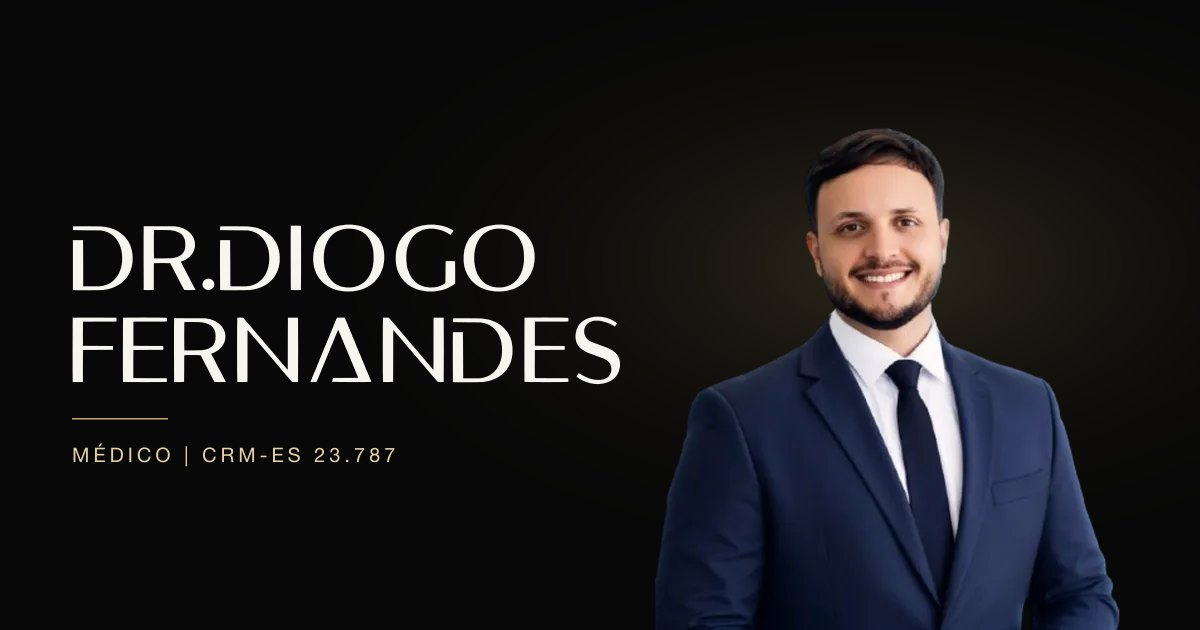
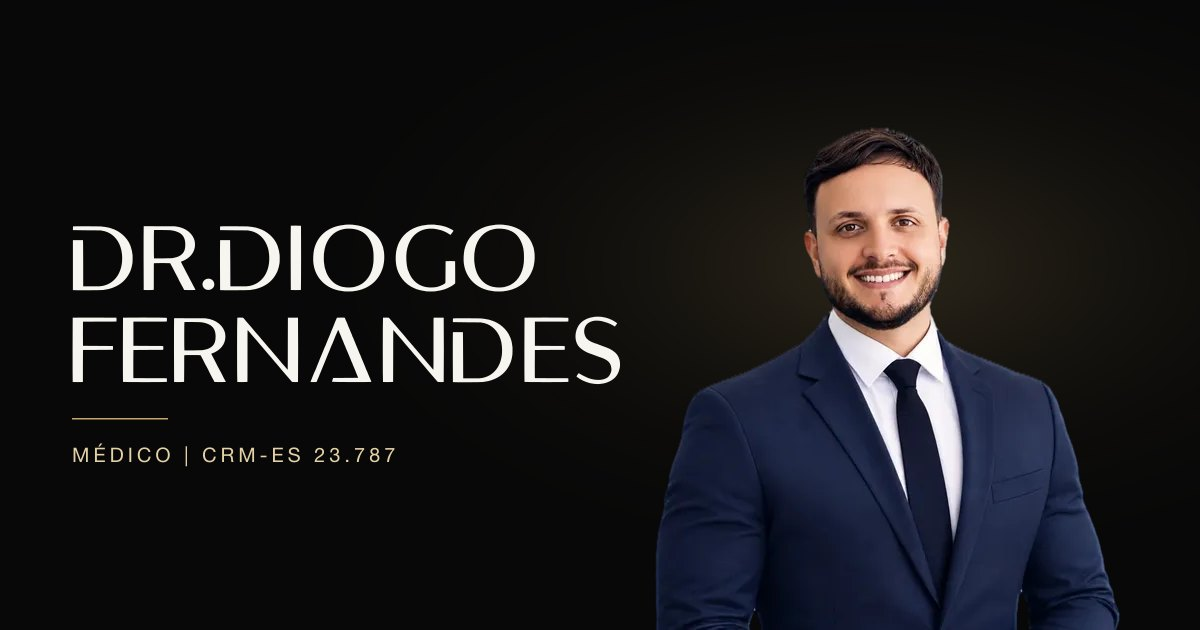
Foto em alta e seção de formação e atendimento

diff --git a/src/components/sections/philosophy.tsx b/src/components/sections/philosophy.tsx
@@ -2,8 +2,9 @@
 
 import { useRef } from "react";
 import { gsap, MOTION_OK, useGSAP } from "@/lib/gsap";
+import { CARE_TOPICS, FORMATION, SITE } from "@/lib/site";
 
-/** Só tipografia: prepara o preto de onde nasce a palavra do portal. */
+/** Título, apresentação curta, formação e atendimento: uma leitura editorial, sem cards. */
 export function Philosophy() {
   const scope = useRef<HTMLElement>(null);
 
@@ -19,6 +20,14 @@ export function Philosophy() {
           .fromTo(".ph-b", { clipPath: "inset(-12% 100% -12% 0%)", x: -28 }, { clipPath: "inset(-12% -2% -12% 0%)", x: 0, duration: 1.05, ease: "expo.inOut" }, 0.35)
           .fromTo(".ph-c", { opacity: 0, y: 12 }, { opacity: 1, y: 0, duration: 0.7, ease: "power2.out" }, 1);
 
+        /* Microinteração: as linhas douradas se desenham e as informações chegam em sequência. */
+        for (const group of gsap.utils.toArray<HTMLElement>(".ph-group", scope.current)) {
+          gsap
+            .timeline({ scrollTrigger: { trigger: group, start: "top 86%", once: true } })
+            .fromTo(group.querySelectorAll(".ph-line"), { scaleX: 0 }, { scaleX: 1, duration: 0.9, ease: "expo.out", stagger: 0.06 })
+            .fromTo(group.querySelectorAll(".ph-item"), { opacity: 0, y: 10 }, { opacity: 1, y: 0, duration: 0.6, ease: "power2.out", stagger: 0.06 }, 0.1);
+        }
+
         /* A última linha some suavemente e deixa o preto para a palavra SAÚDE. */
         gsap.to(".ph-leave", { opacity: 0, ease: "none", scrollTrigger: { trigger: scope.current, start: "bottom 62%", end: "bottom 30%", scrub: true } });
       });
@@ -28,28 +37,62 @@ export function Philosophy() {
   );
 
   return (
-    <section ref={scope} id="sobre" tabIndex={-1} className="after-portrait gutter relative z-[2] flex min-h-svh flex-col justify-between gap-14 pb-16 pt-[clamp(5.5rem,14svh,9rem)] outline-none md:pb-20">
+    <section ref={scope} id="sobre" tabIndex={-1} className="after-portrait gutter relative z-[2] flex min-h-svh flex-col gap-12 pb-16 pt-[clamp(7rem,16svh,9rem)] outline-none md:gap-16 md:pb-24">
       <p className="ph-eyebrow eyebrow text-gold">02 / Nossa filosofia</p>
 
-      <h2 className="display text-[clamp(2.5rem,6.6vw,7.5rem)] leading-[1.1]">
-        <span className="ph-a block max-w-[16ch] text-bone">Mais do que cuidar da saúde.</span>
-        <span className="ph-b mt-[.2em] block max-w-[14ch] text-gold-light md:ml-[20vw]">Compreender cada pessoa.</span>
+      {/* 1. Título */}
+      <h2 className="display text-[clamp(2.25rem,6.6vw,7.5rem)] leading-[1.16] md:leading-[1.1]">
+        <span className="ph-a block max-w-[16ch] pt-[.06em] text-bone">Mais do que cuidar da saúde.</span>
+        <span className="ph-b mt-[.24em] block max-w-[14ch] pt-[.06em] text-gold-light md:ml-[20vw]">Compreender cada pessoa.</span>
       </h2>
 
-      <div className="ph-leave grid gap-8 md:grid-cols-12">
-        <dl className="ph-c order-2 grid content-end gap-5 text-sm sm:grid-cols-2 md:order-1 md:col-span-5">
-          <div>
-            <dt className="text-xs uppercase tracking-[.16em] text-ash">Formação médica</dt>
-            <dd className="mt-1.5 text-bone">Universidade São Carlos — UniFamesc</dd>
-          </div>
-          <div>
-            <dt className="text-xs uppercase tracking-[.16em] text-ash">Atuação</dt>
-            <dd className="mt-1.5 text-bone">Saúde hormonal e metabólica</dd>
-          </div>
-        </dl>
-        <p className="ph-c order-1 max-w-[46ch] text-[clamp(1.0625rem,1.3vw,1.25rem)] leading-[1.6] text-bone/78 md:order-2 md:col-span-6 md:col-start-7">
-          O <span className="brand brand-inline">Dr. Diogo Fernandes</span> valoriza a escuta, a avaliação clínica e uma visão integral da saúde, com atenção às necessidades individuais de cada paciente.
+      {/* 2. Apresentação */}
+      <div className="ph-c grid gap-6 md:grid-cols-12">
+        <p className="max-w-[48ch] text-[clamp(1.0625rem,1.3vw,1.25rem)] leading-[1.65] text-bone/80 md:col-span-7 md:col-start-6">
+          O <span className="brand brand-inline">{SITE.name}</span> atua na saúde hormonal e metabólica, valorizando a escuta, a avaliação clínica individualizada e uma visão integral da saúde de cada paciente.
         </p>
+        <p className="text-xs uppercase leading-relaxed tracking-[.16em] text-ash md:col-span-7 md:col-start-6">
+          <span className="brand text-[1.2em] tracking-normal text-bone">{SITE.name}</span>
+          <span aria-hidden className="mx-2 text-gold/60">|</span>
+          <span className="whitespace-nowrap">{SITE.role} — {SITE.crm}</span>
+        </p>
+      </div>
+
+      {/* 3. Formação médica */}
+      <div className="ph-group grid gap-6 md:grid-cols-12">
+        <h3 className="ph-item eyebrow text-gold md:col-span-4">Formação médica</h3>
+        <dl className="md:col-span-8">
+          {FORMATION.map((f) => (
+            <div key={f.label} className="relative grid gap-1.5 py-5 sm:grid-cols-[11rem_1fr] sm:gap-6">
+              <span aria-hidden className="ph-line absolute inset-x-0 top-0 h-px origin-left bg-linear-to-r from-gold/45 via-gold/20 to-transparent" />
+              <dt className="ph-item text-[.6875rem] uppercase tracking-[.18em] text-ash">
+                {f.label}
+                {f.status === "ongoing" ? <span className="ml-2 inline-block rounded-full border border-ice/40 px-2 py-px align-middle text-[.625rem] tracking-[.14em] text-ice">Cursando</span> : null}
+              </dt>
+              <dd className="ph-item min-w-0">
+                <span className="block text-[1.0625rem] leading-snug text-bone">{f.title}</span>
+                {"place" in f ? <span className="mt-1 block text-sm leading-relaxed text-bone/60">{f.place}</span> : null}
+                {"notSpecialist" in f ? <span className="mt-2 block text-[.6875rem] font-medium tracking-[.16em] text-gold/80">NÃO ESPECIALISTA</span> : null}
+              </dd>
+            </div>
+          ))}
+        </dl>
+      </div>
+
+      {/* 4. Atendimento */}
+      <div className="ph-group ph-leave grid gap-6 md:grid-cols-12">
+        <h3 className="ph-item eyebrow text-gold md:col-span-4">Saúde hormonal e metabólica</h3>
+        <ul className="grid sm:grid-cols-2 md:col-span-8 md:gap-x-10">
+          {CARE_TOPICS.map((t) => (
+            <li key={t} className="relative py-3.5">
+              <span aria-hidden className="ph-line absolute inset-x-0 top-0 h-px origin-left bg-gold/20" />
+              <span className="ph-item flex items-baseline gap-3 text-[.9375rem] leading-snug text-bone/85">
+                <span aria-hidden className="size-1 shrink-0 translate-y-[-.2em] rounded-full bg-gold/70" />
+                {t}
+              </span>
+            </li>
+          ))}
+        </ul>
       </div>
     </section>
   );

diff --git a/src/lib/site.ts b/src/lib/site.ts
@@ -14,8 +14,8 @@ export const SITE = {
  * `npm run media` e mantenha estes caminhos, ou aponte para os novos aqui.
  */
 export const PHOTOS = {
-  hero: { src: "/media/hero-figure-3.webp", width: 1024, height: 1536, alt: "Dr. Diogo Fernandes de terno azul-marinho, sorrindo, com as mãos entrelaçadas" },
-  portrait: { src: "/media/portrait-3.webp", width: 1174, height: 1468, alt: "Retrato do Dr. Diogo Fernandes de terno azul-marinho" },
+  hero: { src: "/media/hero-figure-4.webp", width: 1024, height: 1536, alt: "Dr. Diogo Fernandes de terno azul-marinho, sorrindo, com as mãos entrelaçadas" },
+  portrait: { src: "/media/portrait-4.webp", width: 1174, height: 1468, alt: "Retrato do Dr. Diogo Fernandes de terno azul-marinho" },
 } as const;
 
 export const AREAS = [
@@ -23,6 +23,27 @@ export const AREAS = [
   { n: "02", title: "Resistência à insulina", text: "Investigação e acompanhamento do metabolismo da glicose e da insulina." },
   { n: "03", title: "Diabetes", text: "Acompanhamento médico direcionado à saúde metabólica individual." },
   { n: "04", title: "Tireoide", text: "Avaliação e acompanhamento de alterações do funcionamento da tireoide." },
+] as const;
+
+/**
+ * Formação informada pela cliente. Pós-graduação não confere título de especialista:
+ * sem RQE, cada pós-graduação vem com "NÃO ESPECIALISTA" (Resolução CFM 2.336/2023, art. 13).
+ */
+export const FORMATION = [
+  { label: "Graduação", title: "Medicina", place: "Universidade São Carlos / Famesc", status: "done" },
+  { label: "Pós-graduação", title: "Endocrinologia", place: "Academia Brasileira de Medicina Funcional Integrativa (ABMFI)", status: "done", notSpecialist: true },
+  { label: "Formação em andamento", title: "Pós-graduando em Nutrologia", place: "Afya Educação Médica", status: "ongoing", notSpecialist: true },
+  { label: "Membro", title: "Academia Brasileira de Medicina Funcional Integrativa (ABMFI)", status: "member" },
+] as const;
+
+export const CARE_TOPICS = [
+  "Obesidade e controle de peso",
+  "Sarcopenia",
+  "Doenças da tireoide",
+  "Lipedema",
+  "Diabetes",
+  "Resistência à insulina",
+  "Demais doenças endócrinas e metabólicas",
 ] as const;
 
 export const STEPS = [
